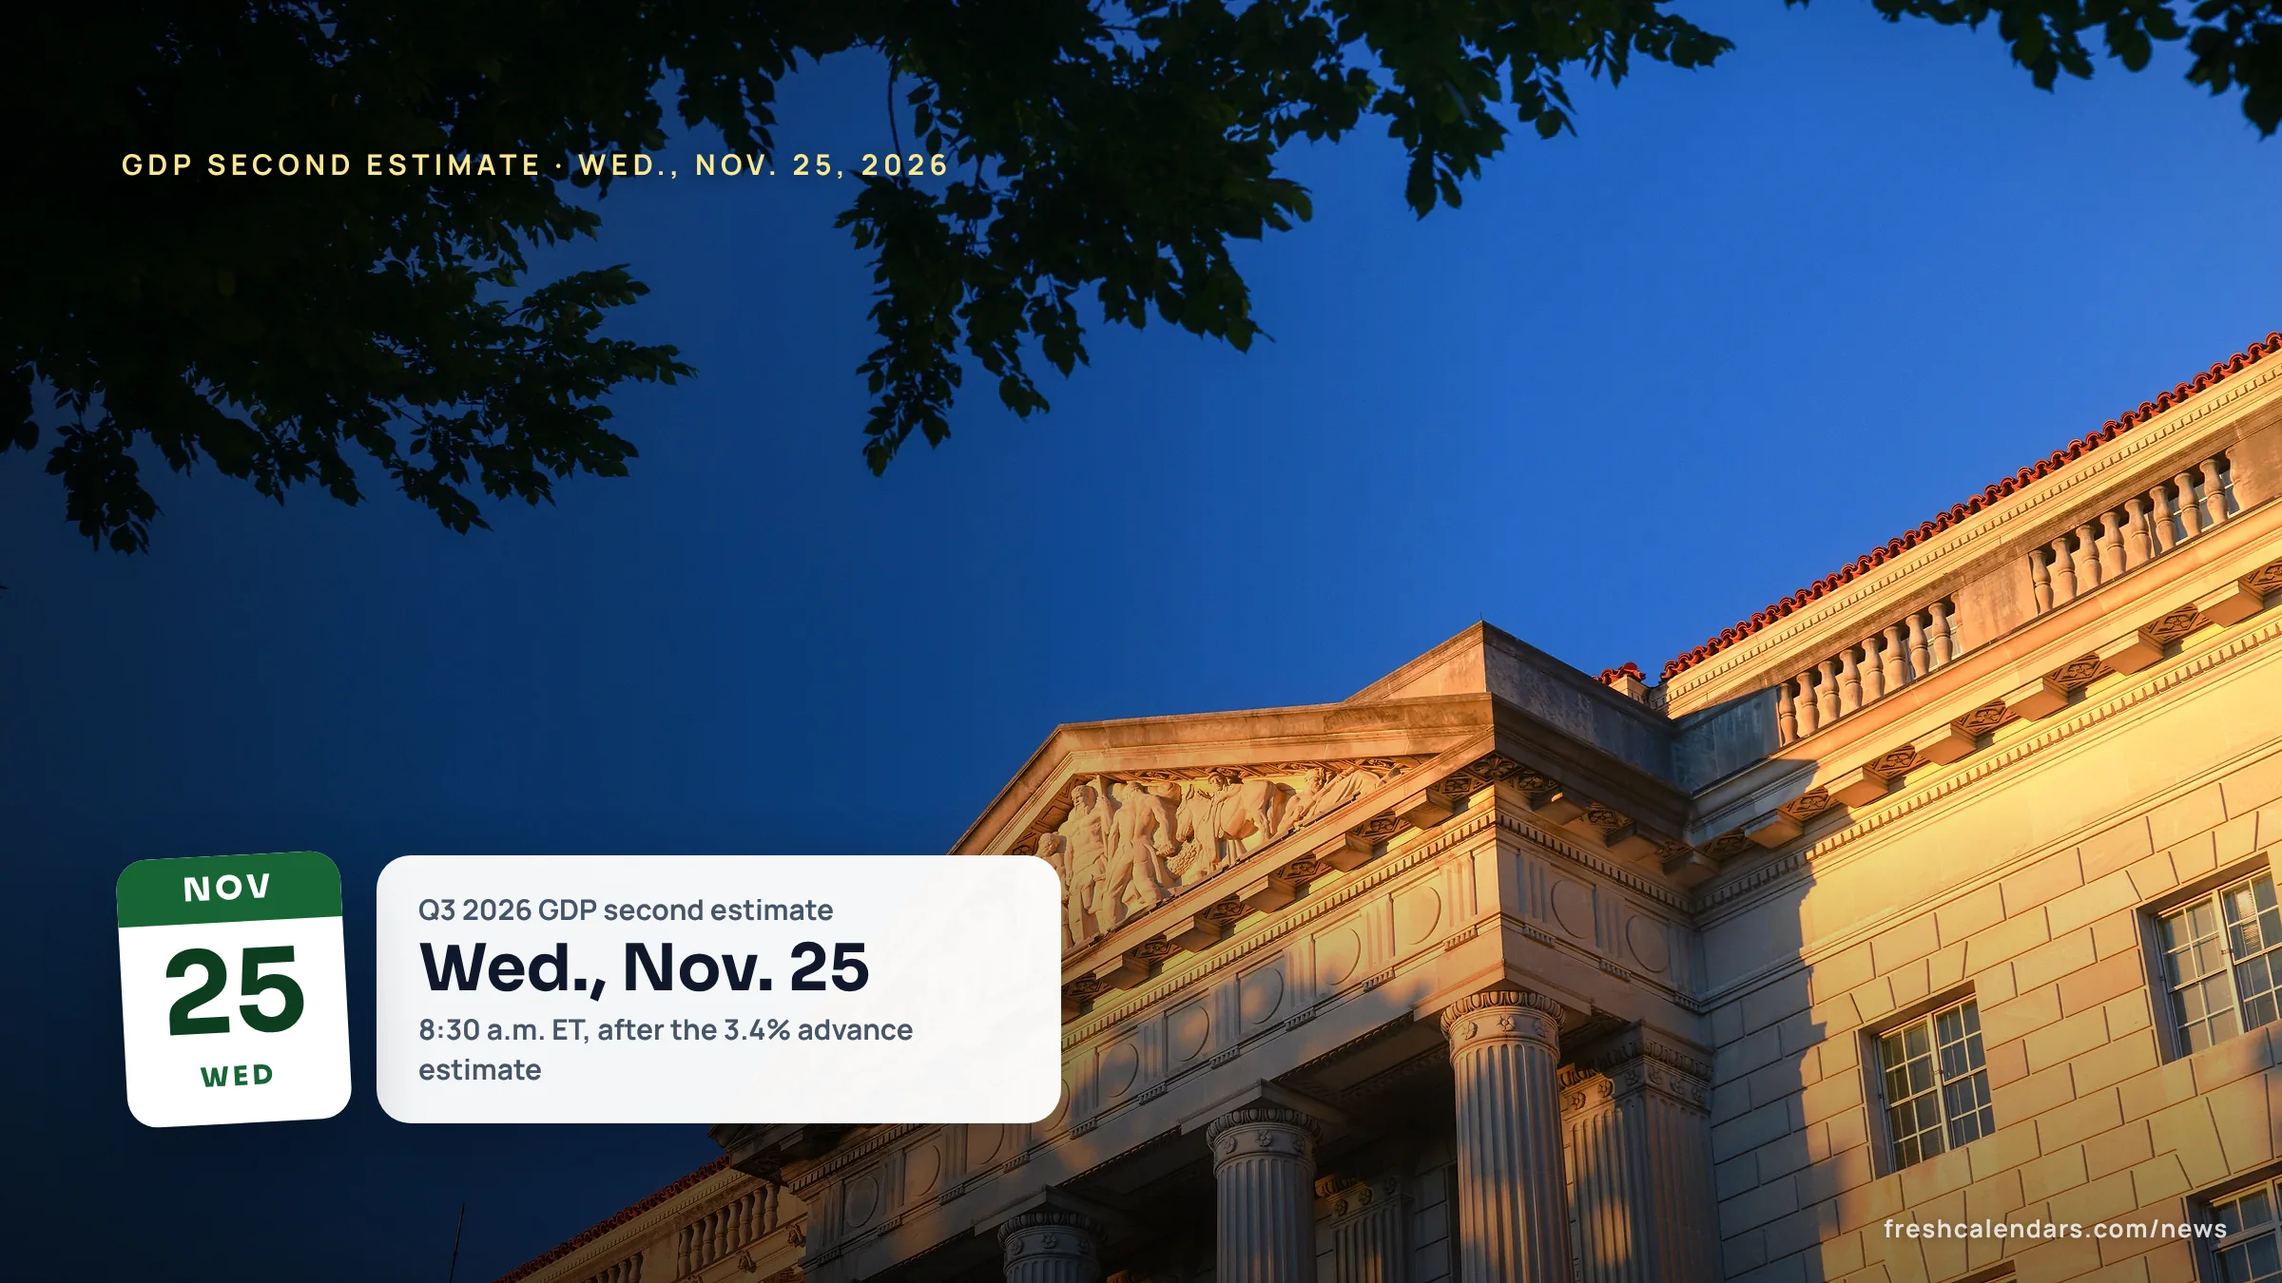
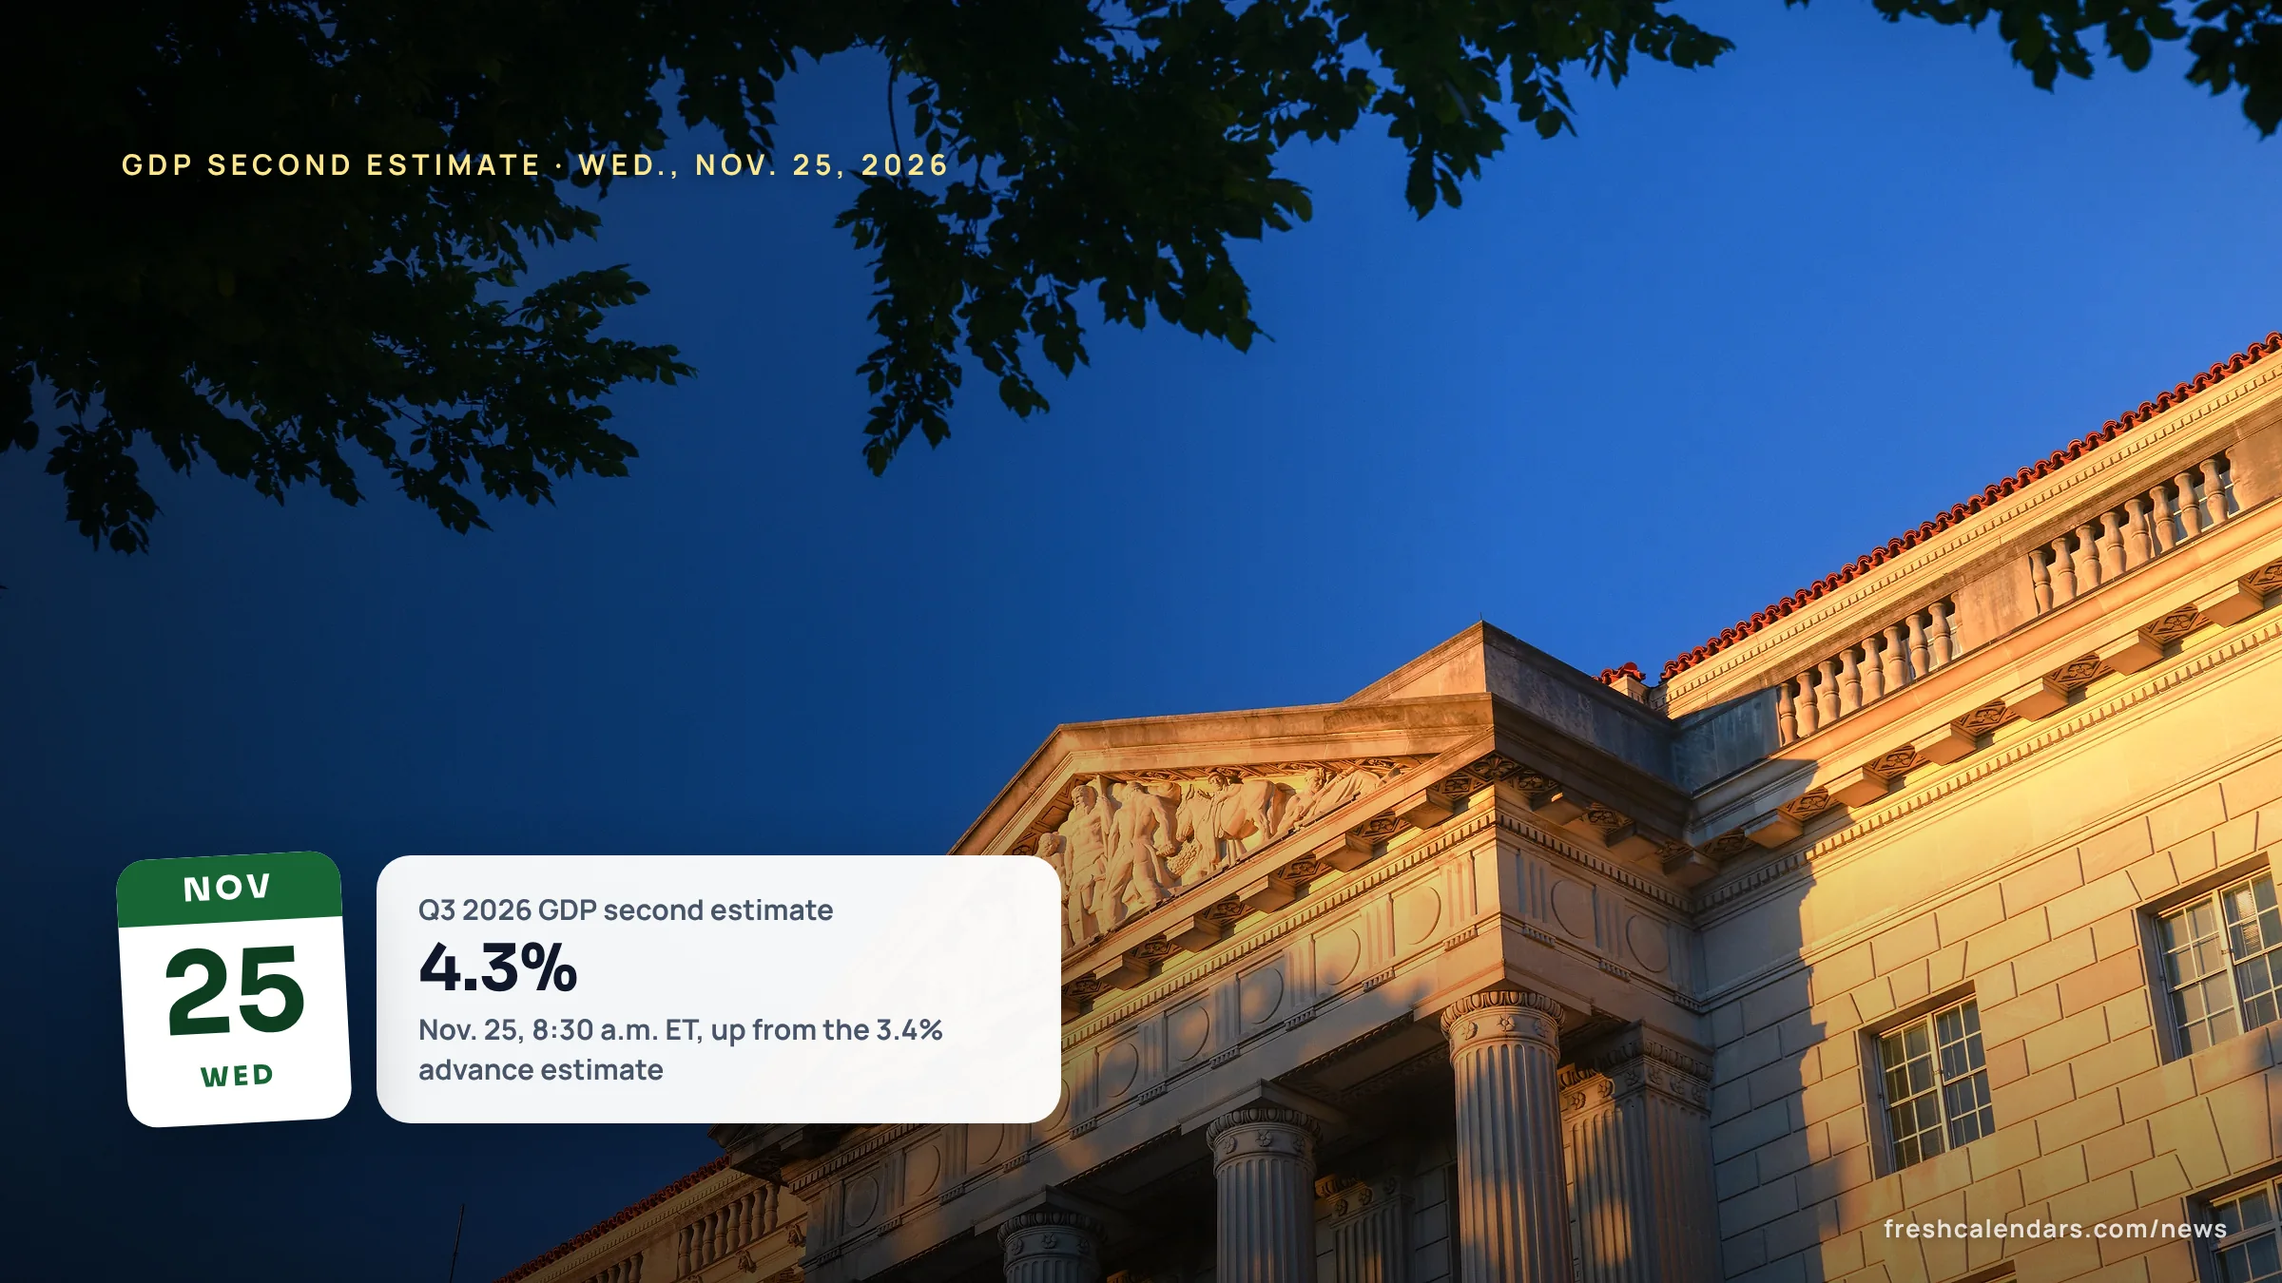
desk(u): GDP schedule story adds Q3 second estimate 4.3%, next Dec. 23
BEA Nov. 25 releases: real GDP 4.3% (revised up 0.9 point from 3.4%),
corporate profits +$206.0 billion, October PCE price index 0.3%/3.8%
(core 0.3%/3.3%); next release Dec. 23. Ticks upd-gdp-report-october-29-2026-time-bea-release-calendar.

Claude-Session: https://claude.ai/code/session_01YBn8za2xucVmSm66cL8rsX

Changed region(s): [[0.1875, 0.7156, 0.4062, 0.84]]

diff --git a/apps/news/src/content/articles/2026/10/gdp-report-october-29-2026-time-bea-release-calendar.md b/apps/news/src/content/articles/2026/10/gdp-report-october-29-2026-time-bea-release-calendar.md
@@ -1,9 +1,9 @@
 ---
-title: "BEA GDP Release Schedule 2026: Next Estimates Nov. 25, Dec. 23"
-description: "Gross domestic product (GDP) grew 3.4% in the third quarter of 2026, the Bureau of Economic Analysis (BEA) says. See all 14 releases through Dec. 23."
+title: "BEA GDP Release Schedule 2026: Q3 Revised Up to 4.3%, Next Dec. 23"
+description: "Gross domestic product (GDP) grew 4.3% in the third quarter of 2026, revised up from 3.4%, the Bureau of Economic Analysis (BEA) says. Next: Dec. 23."
 type: news
 publishedAt: "2026-10-28T17:46:00-04:00"
-updatedAt: "2026-11-21T15:46:00-05:00"
+updatedAt: "2026-11-25T08:40:00-05:00"
 authors: [aaron-kessler]
 category: money-benefits
 keywords: ["gdp report today", "gdp release october 29 2026", "q3 gdp release date 2026", "pce release date", "bea release schedule november 2026"]
@@ -19,9 +19,9 @@ hero:
     author: "Tony Webster"
     authorUrl: "https://www.flickr.com/people/87296837@N00"
 summary:
-  - "Real gross domestic product (GDP) increased at an annual rate of 3.4 percent in the third quarter of 2026, up from 2.2 percent in the second quarter, according to the Bureau of Economic Analysis (BEA) advance estimate released Oct. 29 at 8:30 a.m. Eastern Time (ET)."
-  - "The personal consumption expenditures (PCE) price index rose 0.5 percent in September and 3.6 percent from a year earlier; excluding food and energy it rose 0.3 percent and 3.1 percent, the BEA said."
-  - "The BEA's schedule lists 14 releases from Oct. 29 to Dec. 23, 2026, including the second GDP estimate on Nov. 25 and the third on Dec. 23."
+  - "Real gross domestic product (GDP) increased at an annual rate of 4.3 percent in the third quarter of 2026, an upward revision of 0.9 percentage point from the 3.4 percent advance estimate, according to the Bureau of Economic Analysis (BEA) second estimate released Nov. 25 at 8:30 a.m. Eastern Time (ET)."
+  - "The personal consumption expenditures (PCE) price index rose 0.3 percent in October and 3.8 percent from a year earlier; excluding food and energy it rose 0.3 percent and 3.3 percent, the BEA said. In September it rose 0.5 percent and 3.6 percent."
+  - "The BEA's schedule lists 14 releases from Oct. 29 to Dec. 23, 2026. The third GDP estimate and Personal Income and Outlays for November 2026 are next, on Wednesday, Dec. 23."
   - "U.S. clocks fell back on Sunday, Nov. 1, so the 8:30 a.m. ET releases were on Eastern Daylight Time (EDT) on Oct. 29 and are on Eastern Standard Time (EST) from Nov. 4 on."
 faq:
   - q: "What time is the GDP report on Oct. 29, 2026?"
@@ -29,9 +29,9 @@ faq:
   - q: "What does the Oct. 29 GDP release cover?"
     a: "The advance estimate of real gross domestic product for the third quarter of 2026, according to the BEA release schedule."
   - q: "When is the PCE price index released?"
-    a: "The BEA says the PCE price index is released each month in the Personal Income and Outlays report. The September 2026 report was released Oct. 29 and the October 2026 report is on Nov. 25."
-  - q: "When is the second estimate of third-quarter GDP?"
-    a: "Wednesday, Nov. 25, 2026, at 8:30 a.m. ET, together with Corporate Profits. The third estimate is on Wednesday, Dec. 23, 2026."
+    a: "The BEA says the PCE price index is released each month in the Personal Income and Outlays report. The September 2026 report was released Oct. 29, the October 2026 report on Nov. 25, and the November 2026 report is on Wednesday, Dec. 23, at 8:30 a.m. ET."
+  - q: "What did the second estimate of third-quarter GDP show?"
+    a: "The BEA released it on Wednesday, Nov. 25, 2026, at 8:30 a.m. ET, together with Corporate Profits: real GDP increased at an annual rate of 4.3 percent, up from the 3.4 percent advance estimate. The third estimate is on Wednesday, Dec. 23, 2026."
   - q: "Where are the jobs report and Consumer Price Index dates?"
     a: "Those come from the Bureau of Labor Statistics (BLS), not the BEA. Its dates are on bls.gov and are not listed here."
 sources:
@@ -43,10 +43,18 @@ sources:
     url: "https://www.bea.gov/news/2026/personal-income-and-outlays-september-2026"
     publisher: "U.S. Bureau of Economic Analysis"
     date: "2026-10-29"
+  - title: "GDP (Second Estimate) and Corporate Profits, 3rd Quarter 2026"
+    url: "https://www.bea.gov/news/2026/gdp-second-estimate-and-corporate-profits-3rd-quarter-2026"
+    publisher: "U.S. Bureau of Economic Analysis"
+    date: "2026-11-25"
+  - title: "Personal Income and Outlays, October 2026"
+    url: "https://www.bea.gov/news/2026/personal-income-and-outlays-october-2026"
+    publisher: "U.S. Bureau of Economic Analysis"
+    date: "2026-11-25"
   - title: "Release Schedule"
     url: "https://www.bea.gov/news/schedule"
     publisher: "U.S. Bureau of Economic Analysis"
-    date: "2026-11-14"
+    date: "2026-11-25"
   - title: "U.S. International Trade in Goods and Services, September 2026"
     url: "https://www.bea.gov/news/2026/us-international-trade-goods-and-services-september-2026"
     publisher: "U.S. Census Bureau and U.S. Bureau of Economic Analysis"
@@ -79,7 +87,7 @@ assets:
   overlay: true
   kicker: "GDP second estimate · Wed., Nov. 25, 2026"
   date: "2026-11-25"
-  card: { top: "Q3 2026 GDP second estimate", big: "Wed., Nov. 25", bottom: "8:30 a.m. ET, after the 3.4% advance estimate" }
+  card: { top: "Q3 2026 GDP second estimate", big: "4.3%", bottom: "Nov. 25, 8:30 a.m. ET, up from the 3.4% advance estimate" }
   printable:
     slug: bea-economic-release-calendar-oct-dec-2026
     group: bea-release-calendar-2026
@@ -103,28 +111,41 @@ assets:
       - ["Fri., Dec. 18, 8:30 a.m.", "U.S. International Transactions and Investment Position, 3rd Quarter 2026"]
       - ["Wed., Dec. 23, 8:30 a.m.", "GDP (Third Estimate), Industries, Corporate Profits, State GDP, and State Personal Income, 3rd Quarter 2026"]
       - ["Wed., Dec. 23, 8:30 a.m.", "Personal Income and Outlays, November 2026"]
-    note: "Source: U.S. Bureau of Economic Analysis (BEA), Release Schedule, checked Nov. 14, 2026. Times are Eastern; clocks fell back Nov. 1, 2026."
+    note: "Source: U.S. Bureau of Economic Analysis (BEA), Release Schedule, checked Nov. 25, 2026. Times are Eastern; clocks fell back Nov. 1, 2026."
     description: "All 14 Bureau of Economic Analysis releases from Oct. 29 to Dec. 23, 2026, with weekdays and Eastern Time release times."
     alt: "BEA economic release calendar printable listing 14 releases from Oct. 29 to Dec. 23, 2026"
 ---
 
-The Oct. 29 reports are out. The next GDP estimate is Wednesday, Nov. 25, at 8:30 a.m. ET.
+The second GDP estimate is out. The next one, the third, is Wednesday, Dec. 23, at 8:30 a.m. ET.
 
-**Real gross domestic product (GDP) increased at an annual rate of 3.4 percent in the third quarter of 2026 (July, August and September), according to the advance estimate the U.S. Bureau of Economic Analysis (BEA) released on Thursday, Oct. 29, 2026, at 8:30 a.m. Eastern Time (ET).** In the second quarter, real GDP increased 2.2 percent. The BEA released Personal Income and Outlays for September 2026 at the same time; the next GDP estimate comes on Wednesday, Nov. 25.
+**Real gross domestic product (GDP) increased at an annual rate of 4.3 percent (1.1 percent at a quarterly rate) in the third quarter of 2026 (July, August and September), an upward revision of 0.9 percentage point from the previous estimate, the U.S. Bureau of Economic Analysis (BEA) said in its second estimate on Wednesday, Nov. 25, 2026, at 8:30 a.m. Eastern Time (ET).** The BEA says the revision primarily reflects upward revisions to investment and consumer spending. Real GDP increased 2.2 percent (revised) in the second quarter. The third estimate and Personal Income and Outlays for November 2026 come on Wednesday, Dec. 23.
 
-## What did the Oct. 29, 2026 reports show?
+## What did the Nov. 25, 2026 reports show?
 
-| Measure (BEA, released Oct. 29, 2026) | Figure |
-|---|---|
-| Real GDP, third quarter 2026, annual rate | +3.4% (second quarter: +2.2%) |
-| Current-dollar GDP, third quarter, annual rate | +5.6% |
+| Measure (BEA, released Nov. 25, 2026) | Advance estimate (Oct. 29) | Second estimate (Nov. 25) |
+|---|---|---|
+| Real GDP, third quarter 2026, annual rate | +3.4% | +4.3% |
+| Current-dollar GDP, third quarter, annual rate | +5.6% | +6.2% |
+| Real final sales to private domestic purchasers, annual rate | +4.9% | +5.8% |
+| Real gross domestic income (GDI), annual rate | not available | +4.4% |
+
+The BEA also reported that profits from current production (corporate profits with inventory valuation and capital consumption adjustments) increased $206.0 billion in the third quarter, compared with an increase of $384.0 billion in the second quarter.
+
+| Personal Income and Outlays, October 2026 (released Nov. 25) | October | September (released Oct. 29) |
+|---|---|---|
+| Personal income | +$201.8 billion (+0.7%) | +$54.5 billion (+0.2%) |
+| Consumer spending (PCE) | +$63.8 billion (+0.3%) | +$113.1 billion (+0.5%) |
+| PCE price index, from the preceding month | +0.3% (excluding food and energy: +0.3%) | +0.5% (excluding food and energy: +0.3%) |
+| PCE price index, from a year earlier | +3.8% (excluding food and energy: +3.3%) | +3.6% (excluding food and energy: +3.1%) |
+
+The personal saving rate was 4.1 percent in October. The BEA's Personal Income and Outlays release for October gives Dec. 23, 2026, at 8:30 a.m. EST as the next release date. The Oct. 29 advance estimate also showed a third-quarter PCE price index of +2.1% at an annual rate (excluding food and energy: +2.5%).
 | Personal consumption expenditures (PCE) price index, third quarter, annual rate | +2.1% (excluding food and energy: +2.5%) |
 | Personal income, September | +$54.5 billion (+0.2%) |
 | Consumer spending (PCE), September | +$113.1 billion (+0.5%) |
 | PCE price index, September, from August | +0.5% (excluding food and energy: +0.3%) |
 | PCE price index, September, from a year earlier | +3.6% (excluding food and energy: +3.1%) |
 
-The GDP figures come from the BEA's "GDP (Advance Estimate), 3rd Quarter 2026" release and the monthly figures from "Personal Income and Outlays, September 2026." The advance estimate is the first of three; the BEA revises it on Nov. 25 and Dec. 23.
+The GDP figures come from the BEA's "GDP (Second Estimate) and Corporate Profits, 3rd Quarter 2026" and "GDP (Advance Estimate), 3rd Quarter 2026" releases, and the monthly figures from "Personal Income and Outlays, October 2026" and "September 2026." The second estimate is the second of three; the third is on Dec. 23.
 
 ## What did the BEA release on Oct. 29, 2026?
 
@@ -144,8 +165,8 @@ The schedule has 14 items between Oct. 29 and Dec. 23. All are at 8:30 a.m. ET e
 | Tue., Nov. 17 | 10:00 a.m. | Experimental Super Intelligence Economic Statistics, 2024 (article, released) |
 | Wed., Nov. 18 | 10:00 a.m. | Outdoor Recreation Economic Statistics, U.S. and States, 2025 (released) |
 | Fri., Nov. 20 | 8:30 a.m. | Activities of U.S. Multinational Enterprises, 2024 (released) |
-| Wed., Nov. 25 | 8:30 a.m. | GDP (Second Estimate) and Corporate Profits, 3rd Quarter 2026 |
-| Wed., Nov. 25 | 8:30 a.m. | Personal Income and Outlays, October 2026 |
+| Wed., Nov. 25 | 8:30 a.m. | GDP (Second Estimate) and Corporate Profits, 3rd Quarter 2026 (released) |
+| Wed., Nov. 25 | 8:30 a.m. | Personal Income and Outlays, October 2026 (released) |
 | Wed., Dec. 2 | 8:30 a.m. | GDP by County and Personal Income by County, 2025 |
 | Tue., Dec. 8 | 8:30 a.m. | U.S. International Trade in Goods and Services, October 2026 |
 | Thu., Dec. 10 | 8:30 a.m. | Real Personal Consumption Expenditures by State and Real Personal Income by State, 2025 |
@@ -153,7 +174,7 @@ The schedule has 14 items between Oct. 29 and Dec. 23. All are at 8:30 a.m. ET e
 | Wed., Dec. 23 | 8:30 a.m. | GDP (Third Estimate), Industries, Corporate Profits, State GDP, and State Personal Income, 3rd Quarter 2026 |
 | Wed., Dec. 23 | 8:30 a.m. | Personal Income and Outlays, November 2026 |
 
-Source: BEA, Release Schedule, checked Nov. 14, 2026. Mark them on a [November 2026 printable calendar](/november-calendars.html) and a [December 2026 printable calendar](/december-calendars.html).
+Source: BEA, Release Schedule, checked Nov. 25, 2026. Mark them on a [November 2026 printable calendar](/november-calendars.html) and a [December 2026 printable calendar](/december-calendars.html).
 
 ## What time is each BEA release in other time zones?
 
@@ -168,9 +189,9 @@ The BEA lists times in Eastern Time. We converted them with a time zone calculat
 
 Oct. 29 is the odd one out. Arizona matches Pacific time that day and Mountain time afterward, and London is four hours ahead of Eastern, not the five hours it is from Nov. 1 on.
 
-## When is the next GDP estimate after Oct. 29?
+## When is the next GDP estimate after Nov. 25?
 
-The BEA schedule lists the second estimate of third-quarter 2026 GDP, with Corporate Profits, on Wednesday, Nov. 25, 2026, and the third estimate on Wednesday, Dec. 23, 2026. Each date also carries a Personal Income and Outlays report (October 2026 on Nov. 25, November 2026 on Dec. 23).
+The BEA schedule lists the third estimate of third-quarter 2026 GDP, with Industries, Corporate Profits, State GDP and State Personal Income, on Wednesday, Dec. 23, 2026, at 8:30 a.m. ET. Personal Income and Outlays for November 2026 is released the same day. The BEA's schedule shows no changes to these dates.
 
 ## Where are the jobs report and Consumer Price Index dates?
 

diff --git a/docs/desk/w2.md b/docs/desk/w2.md
@@ -1191,7 +1191,7 @@ School calendars, test dates, family planning, money and benefits, taxes, wages,
   Add: spring break dates per district from our district stories and their official calendars, each row linked; printable regenerated. (research desk, Nov. 9, 2026)
 
 - [x] **upd-2027-tax-brackets-401k-hsa-limits-irs-retirement-notice** (done 2026-11-12, 2027 retirement limits from IR-2026-136 and Notice 2026-66: 401(k) $25,500, catch-up $8,500, ages 60-63 $11,750, SIMPLE $17,500, IRA $7,500, IRA phase-outs; title: "2027 Tax Brackets: $16,600 Standard Deduction, 401(k) Pending" → "2027 Tax Brackets: $16,600 Standard Deduction, $25,500 401(k)"; same lines in savers-match-2027 and year-end-money-deadlines stories; printable regenerated) (research desk, 2026-11-10) On the day the IRS posts its 2027 retirement-plan limits (news release plus Notice; last year IR-2025-111 and Notice 2025-67 on Nov. 13, 2025; not in the irs.gov newsroom through IR-2026-135, Nov. 10). Replace the "not yet announced" 401(k), 403(b), 457, IRA, catch-up and SIMPLE rows of `2027-tax-brackets-401k-hsa-limits-irs` with the official 2027 figures from the release and https://www.irs.gov/retirement-plans/cola-increases-for-dollar-limitations-on-benefits-and-contributions; no forecasts (Milliman's $25,500 is not a source). Then the same rows in any other story that says the 2027 401(k) limit is not yet announced (grep).
-- [ ] **upd-gdp-report-october-29-2026-time-bea-release-calendar** (research desk, 2026-11-09) On Wed. Nov. 25, after 8:30 a.m. ET.
+- [x] **upd-gdp-report-october-29-2026-time-bea-release-calendar** (done 2026-11-25, Q3 second estimate 4.3%, revised up from 3.4%, corporate profits +$206.0 billion and October PCE price index 0.3%/3.8% (core 0.3%/3.3%) from the Nov. 25 BEA releases in title, description, summary, lede, tables, FAQ, hero card and sources; next Dec. 23 third estimate; printable note date refreshed) (research desk, 2026-11-09) On Wed. Nov. 25, after 8:30 a.m. ET.
   Query: gdp report november 25 2026, gdp second estimate q3 2026. Category `money-benefits`, byline `aaron-kessler`. By Nov 25.
   Add: research desk, Nov. 9, 2026: BEA schedule (https://www.bea.gov/news/schedule) lists "GDP (Second Estimate) and Corporate Profits, 3rd Quarter 2026" Nov. 25, 8:30 AM, and the third estimate Dec. 23, 8:30 AM; the advance estimate (https://www.bea.gov/data/gdp/gross-domestic-product) is 3.4%. After the release, add the second-estimate rate next to the 3.4% advance figure in the lede, table and FAQ, and point "next" to Dec. 23. Facts and `updatedAt` only.
 
